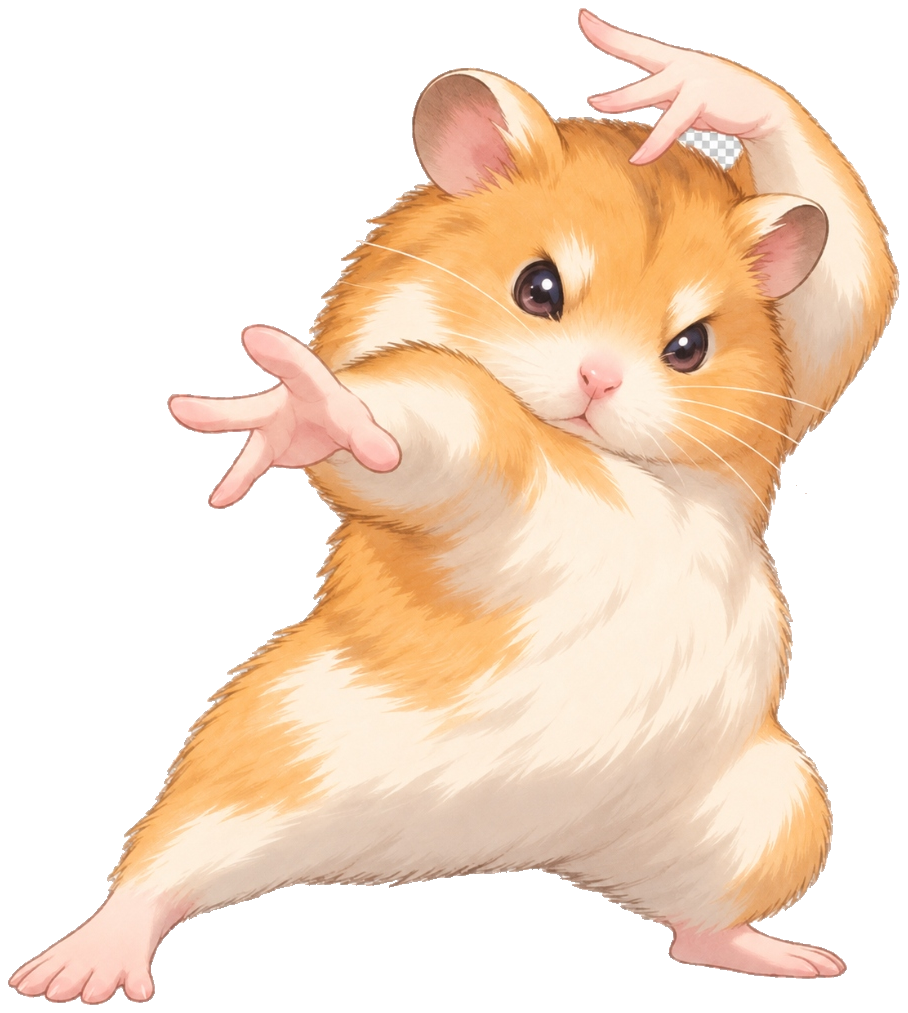
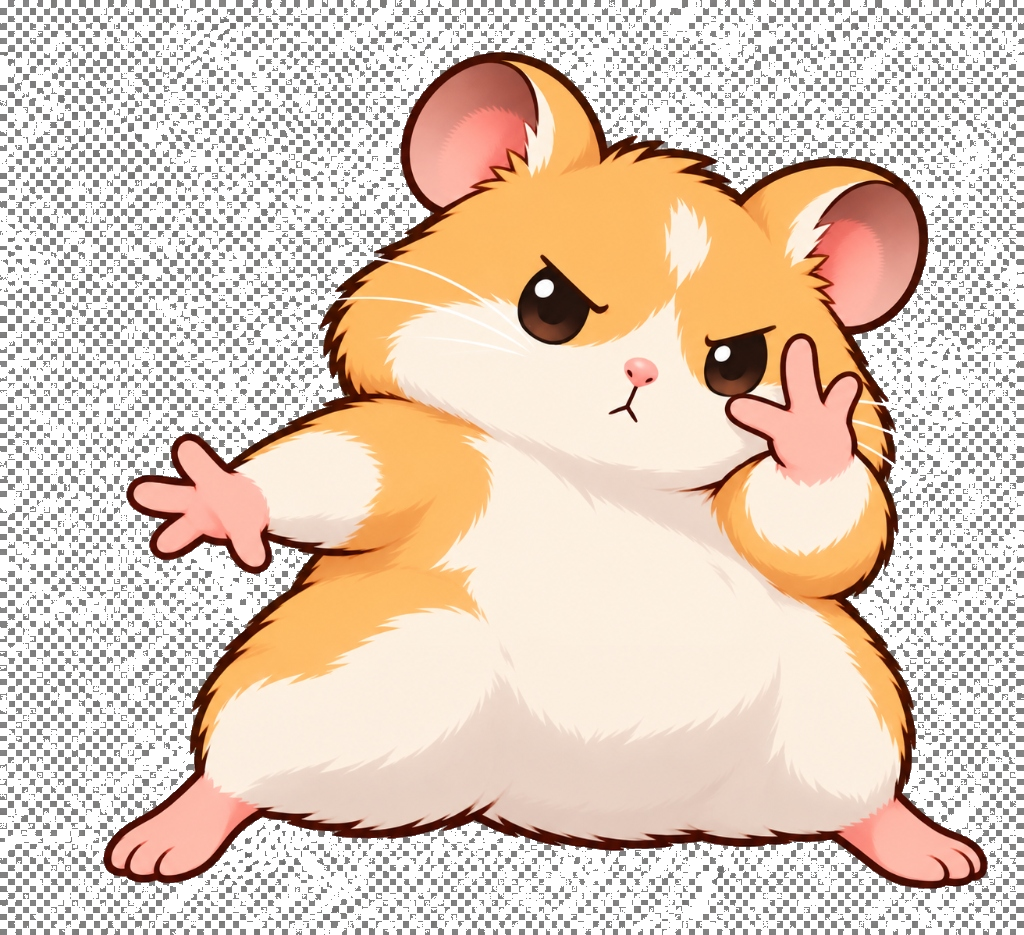
モード選択画面のLIVINGROOMハムスター新画像差替え（どっしり構えポーズ・背景透過）＆LIVINGROOM・RHYTHMROOM両ハムスターのサイズ拡大（約35%UP）

diff --git a/game.js b/game.js
@@ -4371,18 +4371,22 @@
     // Custom hub standing hamster image override for LIVING ROOM
     if (roomType === 'living' && assets.hasImage('hub_hamster')) {
       const img = assets.getImage('hub_hamster');
-      let dw = 78;
-      let dh = 87;
+      let dw = 108;
+      let dh = 100;
       if (img && img.naturalWidth && img.naturalHeight) {
         const aspect = img.naturalWidth / img.naturalHeight;
-        dh = 88;
-        dw = dh * aspect;
+        dw = 108;
+        dh = dw / aspect;
+        if (dh > 112) {
+          dh = 112;
+          dw = dh * aspect;
+        }
       }
 
       // Soft ground shadow under martial-arts kung-fu stance
       hCtx.fillStyle = 'rgba(120, 53, 15, 0.22)';
       hCtx.beginPath();
-      hCtx.ellipse(0, 39 - bounce * 0.35, 26, 6.5, 0, 0, Math.PI * 2);
+      hCtx.ellipse(0, 48 - bounce * 0.35, 34, 7.5, 0, 0, Math.PI * 2);
       hCtx.fill();
 
       assets.drawImage(hCtx, 'hub_hamster', 0, 0, dw, dh);
@@ -4393,28 +4397,32 @@
     // Custom hub standing hamster image override for RHYTHM ROOM
     if (roomType === 'rhythm' && assets.hasImage('hub_hamster_rhythm')) {
       const img = assets.getImage('hub_hamster_rhythm');
-      let dw = 82;
-      let dh = 85;
+      let dw = 104;
+      let dh = 108;
       if (img && img.naturalWidth && img.naturalHeight) {
         const aspect = img.naturalWidth / img.naturalHeight;
-        dh = 86;
+        dh = 110;
         dw = dh * aspect;
+        if (dw > 108) {
+          dw = 108;
+          dh = dw / aspect;
+        }
       }
 
       // Soft ground shadow under disco stance
       hCtx.fillStyle = 'rgba(120, 53, 15, 0.22)';
       hCtx.beginPath();
-      hCtx.ellipse(0, 39 - bounce * 0.35, 26, 6.5, 0, 0, Math.PI * 2);
+      hCtx.ellipse(0, 48 - bounce * 0.35, 34, 7.5, 0, 0, Math.PI * 2);
       hCtx.fill();
 
       // Floating musical notes around the disco hamster
       const track = RHYTHM_TRACKS[rhythmTrackIndex] || RHYTHM_TRACKS[0];
       hCtx.fillStyle = track ? track.accentColor : '#d946ef';
-      hCtx.font = '900 13px sans-serif';
+      hCtx.font = '900 14px sans-serif';
       hCtx.textAlign = 'center';
-      const noteY = Math.sin(now * 0.009) * 3.5;
-      hCtx.fillText('♪', 32, -26 + noteY);
-      hCtx.fillText('♫', -32, -24 - noteY);
+      const noteY = Math.sin(now * 0.009) * 4;
+      hCtx.fillText('♪', 40, -34 + noteY);
+      hCtx.fillText('♫', -40, -32 - noteY);
 
       assets.drawImage(hCtx, 'hub_hamster_rhythm', 0, 0, dw, dh);
       hCtx.restore();
@@ -5141,8 +5149,10 @@
     // 2. Mode Select Hub Center Canvas (Compact Front-Facing Standing Hamster!)
     if (state === 'MODESELECT' && hubHamsterCanvas) {
       const hCtx = hubHamsterCanvas.getContext('2d');
-      hCtx.clearRect(0, 0, 88, 108);
-      drawFrontStandingHamster(hCtx, 44, 56, now);
+      const hw = hubHamsterCanvas.width;
+      const hh = hubHamsterCanvas.height;
+      hCtx.clearRect(0, 0, hw, hh);
+      drawFrontStandingHamster(hCtx, hw / 2, hh / 2 + 1, now);
     }
 
     // 3. Game Over / Clear Result Illustration Canvas

diff --git a/style.css b/style.css
@@ -679,7 +679,7 @@ html, body {
 }
 
 .hub-center-hamster {
-  flex: 0 0 82px;
+  flex: 0 0 104px;
   display: flex;
   flex-direction: column;
   justify-content: center;
@@ -694,9 +694,9 @@ html, body {
 }
 
 #hub-hamster-canvas {
-  width: 76px;
-  height: 94px;
-  filter: drop-shadow(0 4px 8px rgba(180, 83, 9, 0.22));
+  width: 100px;
+  height: 114px;
+  filter: drop-shadow(0 5px 10px rgba(180, 83, 9, 0.24));
 }
 
 .rhythm-track-badge {
@@ -710,7 +710,7 @@ html, body {
   align-items: center;
   gap: 1px;
   box-shadow: 0 3px 8px rgba(147, 51, 234, 0.35);
-  width: 82px;
+  width: 96px;
   pointer-events: none;
 }
 

diff --git a/index.html b/index.html
@@ -108,7 +108,7 @@
             </button>
 
             <div class="hub-center-hamster" id="hub-center-hamster" title="タップで設定変更">
-              <canvas id="hub-hamster-canvas" width="88" height="108"></canvas>
+              <canvas id="hub-hamster-canvas" width="120" height="136"></canvas>
               <div class="rhythm-track-badge hidden" id="rhythm-track-badge">
                 <span class="rhythm-track-name" id="rhythm-track-name">🎵1: ELECTRO</span>
                 <span class="rhythm-track-bpm" id="rhythm-track-bpm">BPM160 👆曲変更</span>
